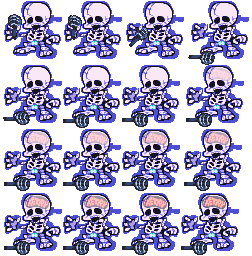
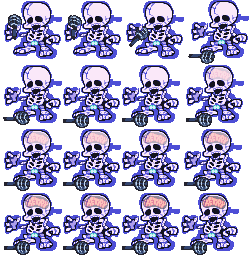
weeb death

Changed region(s): [[0.75, 0.0, 1.0, 0.25]]

diff --git a/src/character/bfweeb.c b/src/character/bfweeb.c
@@ -17,16 +17,13 @@ enum
 {
 	BFWeeb_ArcMain_Weeb0,
 	BFWeeb_ArcMain_Weeb1,
+	BFWeeb_ArcMain_Weeb2,
+	BFWeeb_ArcMain_Weeb3,
+	BFWeeb_ArcMain_Weeb4,
 	
 	BFWeeb_ArcMain_Max,
 };
 
-enum
-{
-	BFWeeb_ArcDead_DeadW0,
-	
-	BFWeeb_ArcDead_Max,
-};
 
 #define BFWeeb_Arc_Max BFWeeb_ArcMain_Max
 
@@ -76,6 +73,56 @@ static const CharFrame char_bfweeb_frame[] = {
 	
 	{BFWeeb_ArcMain_Weeb1, {175,   0,  54,  56}, { 22,  52}}, //19 right miss 1
 	{BFWeeb_ArcMain_Weeb1, {  0,  54,  55,  56}, { 22,  52}}, //20 right miss 2
+
+	{BFWeeb_ArcMain_Weeb1, { 56,  62,  64,  60}, { 22,  52}}, //21 death weeb 1 1
+	{BFWeeb_ArcMain_Weeb1, {120,  64,  73,  60}, { 23,  52}}, //22 death weeb 1 2
+	{BFWeeb_ArcMain_Weeb1, {  0, 120,  68,  58}, { 23,  50}}, //23 death weeb 1 3
+	{BFWeeb_ArcMain_Weeb1, { 69, 123,  73,  58}, { 27,  50}}, //24 death weeb 1 4
+	{BFWeeb_ArcMain_Weeb1, {144, 125,  71,  58}, { 20,  50}}, //25 death weeb 1 5
+	{BFWeeb_ArcMain_Weeb1, {  0, 179,  58,  58}, { 19,  50}}, //26 death weeb 1 6
+
+	{BFWeeb_ArcMain_Weeb2, {  4,   1,  58,  58}, { 22,  52}}, //27 death weeb 2 1
+	{BFWeeb_ArcMain_Weeb2, { 64,   1,  58,  58}, { 23,  52}}, //28 death weeb 2 2
+	{BFWeeb_ArcMain_Weeb2, {126,   1,  58,  58}, { 23,  50}}, //29 death weeb 2 3
+	{BFWeeb_ArcMain_Weeb2, {188,   0,  61,  64}, { 27,  50}}, //30 death weeb 2 4
+	{BFWeeb_ArcMain_Weeb2, {  3,  65,  59,  60}, { 22,  52}}, //31 death weeb 2 5
+	{BFWeeb_ArcMain_Weeb2, { 63,  65,  58,  63}, { 22,  52}}, //32 death weeb 2 6
+	{BFWeeb_ArcMain_Weeb2, {122,  65,  58,  62}, { 22,  52}}, //33 death weeb 2 7
+	{BFWeeb_ArcMain_Weeb2, {186,  65,  58,  62}, { 22,  52}}, //34 death weeb 2 8
+	{BFWeeb_ArcMain_Weeb2, {  4, 129,  58,  62}, { 22,  52}}, //35 death weeb 2 9
+	{BFWeeb_ArcMain_Weeb2, { 63, 129,  58,  62}, { 22,  52}}, //36 death weeb 2 10
+	{BFWeeb_ArcMain_Weeb2, {122, 129,  58,  62}, { 22,  52}}, //37 death weeb 2 11
+	{BFWeeb_ArcMain_Weeb2, {184, 129,  58,  62}, { 22,  52}}, //38 death weeb 2 12
+	{BFWeeb_ArcMain_Weeb2, {  4, 193,  58,  62}, { 22,  52}}, //39 death weeb 2 13
+	{BFWeeb_ArcMain_Weeb2, { 63, 193,  58,  62}, { 22,  52}}, //40 death weeb 2 14
+	{BFWeeb_ArcMain_Weeb2, {122, 193,  58,  62}, { 22,  52}}, //41 death weeb 2 15
+	{BFWeeb_ArcMain_Weeb2, {181, 193,  58,  62}, { 22,  52}}, //42 death weeb 2 16
+
+	{BFWeeb_ArcMain_Weeb3, {  4,   1,  58,  62}, { 22,  52}}, //43 death weeb 2 1
+	{BFWeeb_ArcMain_Weeb3, { 64,   1,  58,  62}, { 22,  52}}, //44 death weeb 2 2
+	{BFWeeb_ArcMain_Weeb3, {126,   1,  58,  62}, { 22,  52}}, //45 death weeb 2 3
+	{BFWeeb_ArcMain_Weeb3, {191,   1,  58,  62}, { 22,  52}}, //46 death weeb 2 4
+	{BFWeeb_ArcMain_Weeb3, {  4,  65,  58,  62}, { 22,  52}}, //47 death weeb 2 5
+	{BFWeeb_ArcMain_Weeb3, { 63,  65,  58,  62}, { 22,  52}}, //48 death weeb 2 6
+	{BFWeeb_ArcMain_Weeb3, {122,  65,  58,  62}, { 22,  52}}, //49 death weeb 2 7
+	{BFWeeb_ArcMain_Weeb3, {186,  65,  58,  62}, { 22,  52}}, //50 death weeb 2 8
+	{BFWeeb_ArcMain_Weeb3, {  4, 129,  58,  62}, { 22,  52}}, //51 death weeb 2 9
+	{BFWeeb_ArcMain_Weeb3, { 63, 129,  58,  62}, { 22,  52}}, //52 death weeb 2 10
+	{BFWeeb_ArcMain_Weeb3, {122, 129,  58,  62}, { 22,  52}}, //53 death weeb 2 11
+	{BFWeeb_ArcMain_Weeb3, {184, 129,  58,  62}, { 22,  52}}, //54 death weeb 2 12
+	{BFWeeb_ArcMain_Weeb3, {  4, 193,  58,  62}, { 22,  52}}, //55 death weeb 2 13
+	{BFWeeb_ArcMain_Weeb3, { 63, 193,  58,  62}, { 22,  52}}, //56 death weeb 2 14
+	{BFWeeb_ArcMain_Weeb3, {122, 193,  58,  62}, { 22,  52}}, //57 death weeb 2 15
+	{BFWeeb_ArcMain_Weeb3, {181, 193,  58,  62}, { 22,  52}}, //58 death weeb 2 16
+
+	{BFWeeb_ArcMain_Weeb4, {  5,   2,  58,  62}, { 22,  52}}, //59 death weeb 2 1
+	{BFWeeb_ArcMain_Weeb4, { 65,   2,  58,  62}, { 22,  52}}, //60 death weeb 2 2
+	{BFWeeb_ArcMain_Weeb4, {127,   2,  58,  62}, { 22,  52}}, //61 death weeb 2 3
+	{BFWeeb_ArcMain_Weeb4, {192,   2,  58,  62}, { 22,  52}}, //62 death weeb 2 4
+	{BFWeeb_ArcMain_Weeb4, {  5,  66,  58, 62 }, { 22,  52}}, //63 death weeb 2 5
+	{BFWeeb_ArcMain_Weeb4, { 64,  66,  58, 62 }, { 22,  52}}, //64 death weeb 2 6
+	{BFWeeb_ArcMain_Weeb4, {123,  66,  58, 62 }, { 22,  52}}, //65 death weeb 2 7
+
 };
 
 static const Animation char_bfweeb_anim[PlayerAnim_Max] = {
@@ -97,13 +144,15 @@ static const Animation char_bfweeb_anim[PlayerAnim_Max] = {
 	{2, (const u8[]){20, 21, 22, ASCR_BACK, 1}},        //PlayerAnim_Peace
 	{2, (const u8[]){ASCR_CHGANI, CharAnim_Idle}},      //PlayerAnim_Sweat
 	
-	{2, (const u8[]){ 0,  1,  2,  3, 4, ASCR_BACK, 1}}, //CharAnim_Idle
-	{2, (const u8[]){ 0,  1,  2,  3, 4, ASCR_BACK, 1}}, //CharAnim_Idle
-	{2, (const u8[]){ 0,  1,  2,  3, 4, ASCR_BACK, 1}}, //CharAnim_Idle
-	{2, (const u8[]){ 0,  1,  2,  3, 4, ASCR_BACK, 1}}, //CharAnim_Idle
-	{2, (const u8[]){ 0,  1,  2,  3, 4, ASCR_BACK, 1}}, //CharAnim_Idle
-	{2, (const u8[]){ 0,  1,  2,  3, 4, ASCR_BACK, 1}}, //CharAnim_Idle
-	{2, (const u8[]){ 0,  1,  2,  3, 4, ASCR_BACK, 1}}, //CharAnim_Idle
+	{2, (const u8[]){21, 22, 23, 24, 25, 26, ASCR_CHGANI, PlayerAnim_Dead1}}, //CharAnim_Idle
+	{2, (const u8[]){26, ASCR_REPEAT, 1}}, //CharAnim_Idle
+	{2, (const u8[]){27, 28, 29, 30, 31, 32, 33, 34, 35, 36, 37, 38, 39, 40, 41, 42, 43, 44, 45, 46, 47, 48, 49, 50, 51, 52, 53, 54, 55, 56, 57, 58,  ASCR_CHGANI, PlayerAnim_Dead3}}, //CharAnim_Idle
+	{2, (const u8[]){59, 60, 61, 62, 63, 64, 65, ASCR_BACK, 1}}, //CharAnim_Idle
+	{2, (const u8[]){59, 60, 61, 62, 63, 64, 65, ASCR_CHGANI, PlayerAnim_Dead3}},             //PlayerAnim_Dead4
+	{2, (const u8[]){59, 60, 61, 62, 63, 64, 65, ASCR_CHGANI, PlayerAnim_Dead3}}, 
+
+	{2, (const u8[]){59, 60, 61, 62, 63, 64, 65, ASCR_CHGANI, PlayerAnim_Dead3}},
+	{2, (const u8[]){59, 60, 61, 62, 63, 64, 65, ASCR_CHGANI, PlayerAnim_Dead3}},
 };
 
 //Boyfriend Weeb player functions
@@ -174,23 +223,6 @@ void Char_BFWeeb_SetAnim(Character *character, u8 anim)
 			this->arc_dead = IO_AsyncReadFile(&this->file_dead_arc);
 			character->focus_x = FIXED_DEC(0,1);
 			break;
-		case PlayerAnim_Dead2:
-			//Unload main.arc
-			Mem_Free(this->arc_main);
-			this->arc_main = this->arc_dead;
-			this->arc_dead = NULL;
-			
-			//Find dead.arc files
-			const char **pathp = (const char *[]){
-				"weeb2.tim", //BFWeeb_ArcDead_DeadW0
-				"weeb3.tim", //BFWeeb_ArcDead_DeadW0
-				"weeb4.tim", //BFWeeb_ArcDead_DeadW0
-				NULL
-			};
-			IO_Data *arc_ptr = this->arc_ptr;
-			for (; *pathp != NULL; pathp++)
-				*arc_ptr++ = Archive_Find(this->arc_main, *pathp);
-			break;
 	}
 	
 	//Set animation
@@ -243,6 +275,9 @@ Character *Char_BFWeeb_New(fixed_t x, fixed_t y)
 	const char **pathp = (const char *[]){
 		"weeb0.tim",  //BFWeeb_ArcMain_Weeb0
 		"weeb1.tim",  //BFWeeb_ArcMain_Weeb1
+		"weeb2.tim", //BFWeeb_ArcDead_DeadW0
+		"weeb3.tim", 
+		"weeb4.tim", 
 		NULL
 	};
 	IO_Data *arc_ptr = this->arc_ptr;
